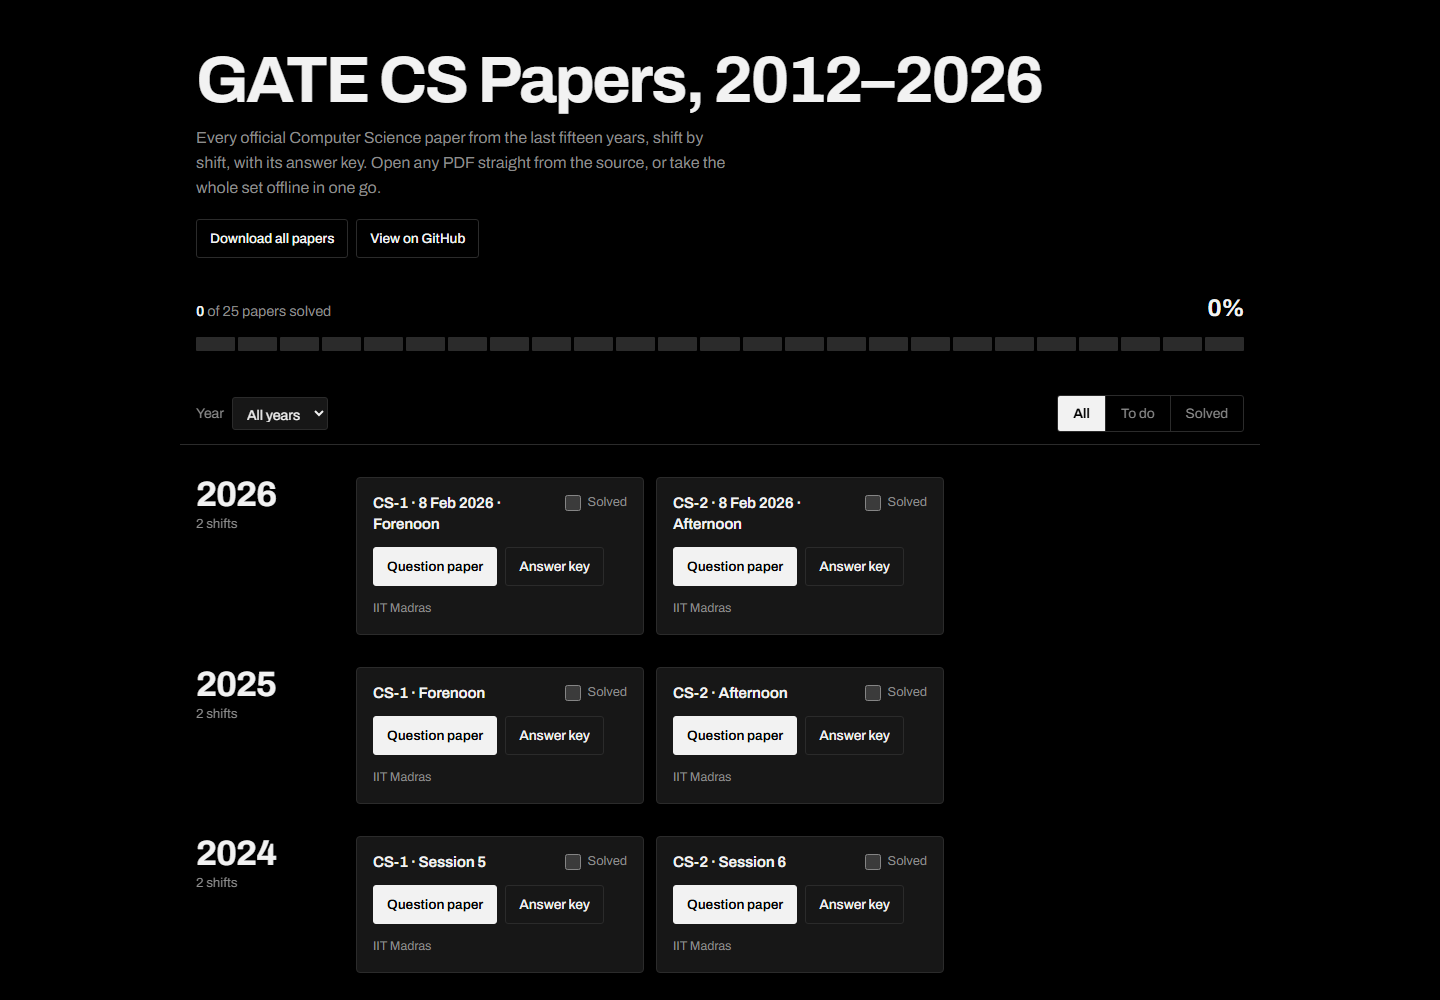
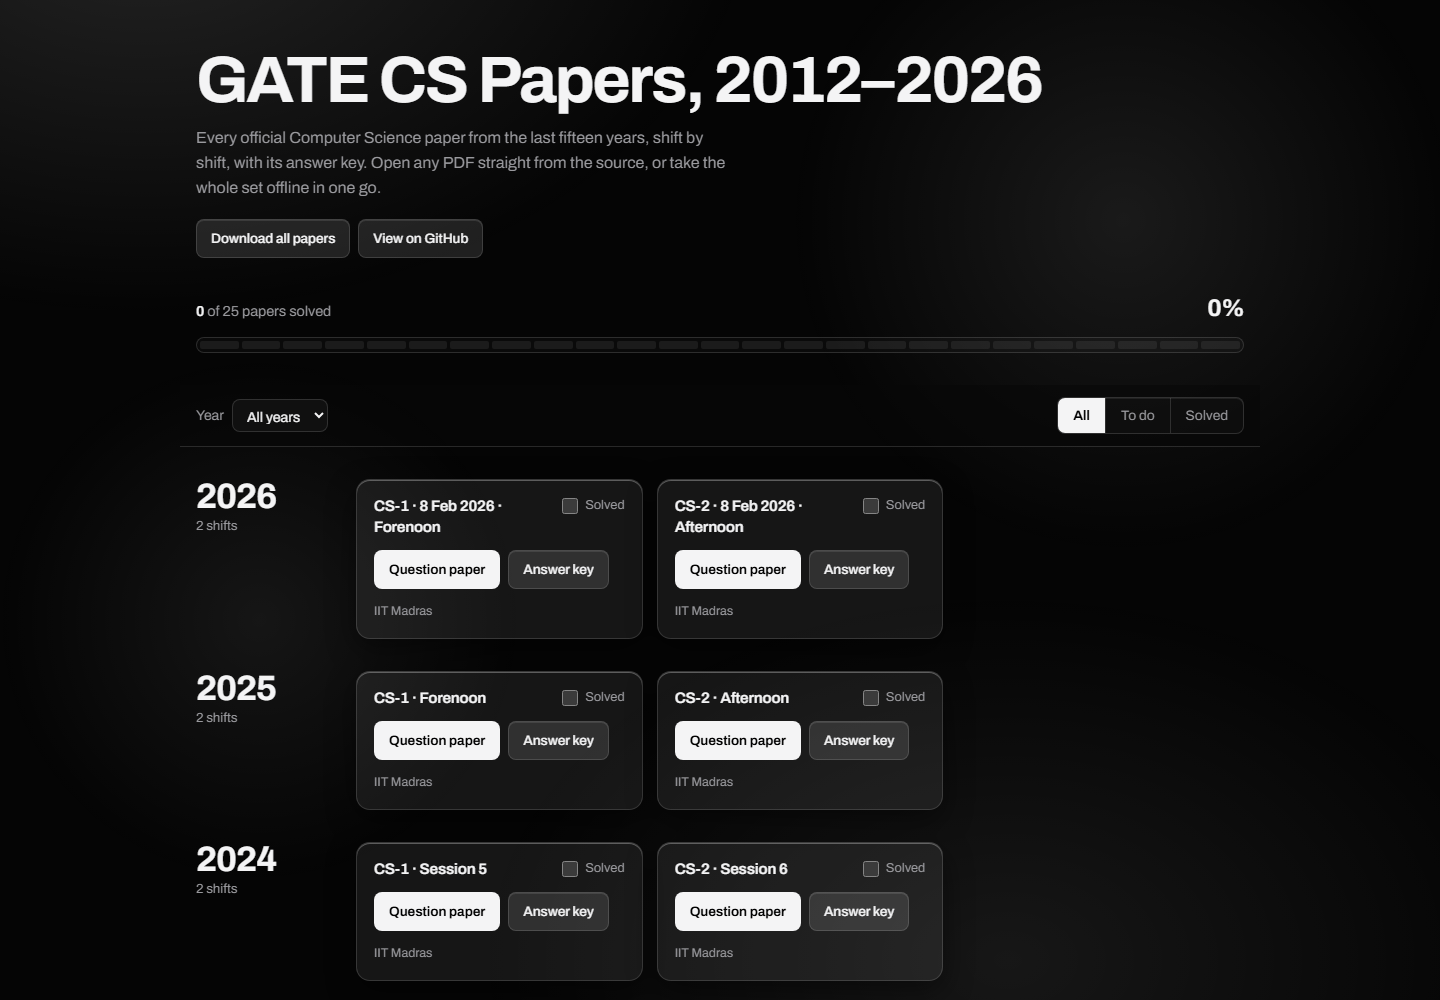
Add live site link to README, refresh screenshot
Link the deployed site at the top, make the screenshot itself a link to it,
and mention it beside the static-export note. The image was still the flat
monochrome design, so it is recaptured from the live deployment and now
matches what visitors actually see.

diff --git a/README.md b/README.md
@@ -1,15 +1,17 @@
 # GATE CS Papers, 2012–2026
 
+**Live site: <https://gatepyq-ten.vercel.app/>**
+
 A frontend-only Next.js site listing all 25 official GATE Computer Science question papers from the last 15 years, shift by shift, with answer keys. Your "solved" ticks are saved in your browser.
 
-![The GATE CS Papers site: a dark, monochrome list of papers grouped by year, with a progress strip across the top](docs/screenshot.png)
+[![The GATE CS Papers site: frosted glass panels over a dark grey field, papers grouped by year with a progress strip across the top](docs/screenshot.png)](https://gatepyq-ten.vercel.app/)
 
 ## Run the website
 
     npm install
     npm run dev          # open http://localhost:3000
 
-To build a static site (no server needed, deploy the `out` folder to Vercel, Netlify or GitHub Pages):
+To build a static site (no server needed, deploy the `out` folder to Vercel, Netlify or GitHub Pages — this repo is deployed at <https://gatepyq-ten.vercel.app/>):
 
     npm run build
 
